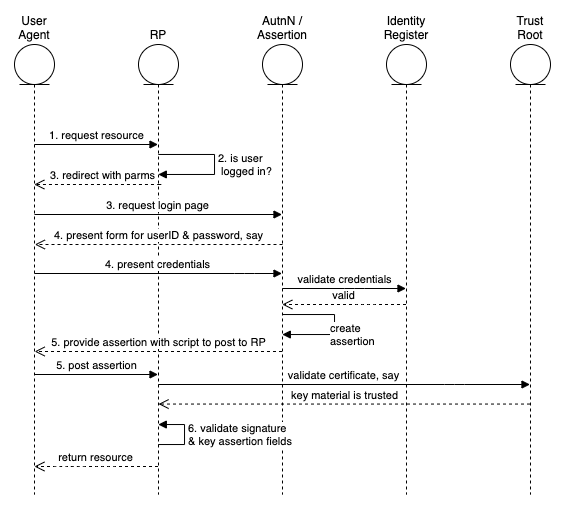
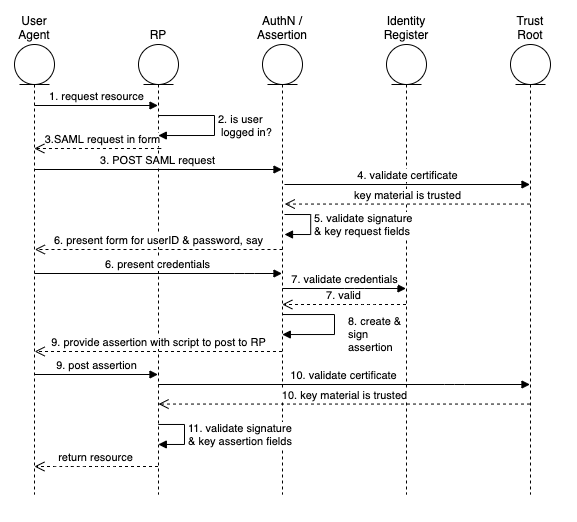
draft of authn-saml use-case complete

diff --git a/use-cases/authn-saml/authn-saml.md b/use-cases/authn-saml/authn-saml.md
@@ -4,30 +4,55 @@ author: George Dobbs
 ---
 
 # Abstract
-This article describes a single use-case as implemented in a particular architecture to illustrate a set of components and how they are connected and interact to perform the use-case.
+This is one of a set of articles that illustrate a set of abstract components may be implemented in a particular architecture.  These articles describe how the abstract components defined in the reference architecture [ref-arch] interact to perform a single use-case . This particular article describes a common use-case which allows a service (the relying party) to use the authentication capability of an identity provider, using the mature security assertion markup language (SAML) standard. This article focuses on  a specific method of web-based signal signon-on.  
 
 # Introduction
+
+This popular use-case relies on trust between the identity provider and the relying party.  There are various ways of doing this; this article assumes that the trust is based on the use of public key cryptography, which involves exchanging certificates.
+
+The SAML specification defines three different kinds of assertion statements; this article is about the Authentication assertion only.
+
+The SAML specification supports mapping of identities between different names, or federated identity. This article is restricted to a single domain, such as a comercial entity which is providing access for its employees to services provided by vendors.  In other words, a single domain of administration allows for the user identifiers to be shared.
+
+Even a cursory review of the OASIS SAML standards documents [SAML Technical Overview] will reveal an extremely rich and flexible structure.  This article represents a very thin slice of its possiblities focusing on the run-time aspect of authentication using the web (HTTPS) messaging protocol.  Technically, we are discussing what OASIS calls the Web Browser SSO profile, using the POST binding.
+
+This synopsis stresses the importance of the Trust Root.  The messaging between the IDP and RP passes through the User Agent.  The User Agent must be considered untrusted.  This means that a corrupted agent could potentially modify the messages.  To protect against this the messages are protected by a digital signature, which must be validated.  It is the common certificate authority that acts as the Trust Root to support these signatures.  
+
+The topic of signatures becomes quite deep quickly and is not covered in detail here.  The SAML specification relies on the W3C Recommendation XML Signature Syntax and Processing [xml-sig], which may be of interest.
+
 # Terminology
+
+Please see the terminology in the reference architecture article [link].
 
 User Agent	The user is not shown here, although he or she is operating the browser, which is called the user -agent.
 
 # Use Case
 
 ## Summary
-The web user seeks resources at the relying party, which causes the user to authenticate  to the identity provider,  which then produces an authentication assertion and the relying party consumes the assertion to establish a security context for the web user.
+The web user seeks resources at the relying party, which causes the user to authenticate  to the identity provider,  which then produces an authentication assertion. Subsequently the relying party consumes the assertion to establish a security context for the web user.
 ## Architecture Types
-Cloud Environments 
+Of the types defined in [Introduction to IAM Architecture] this method applies to Cloud Environments.
 ## Actors 
-User
-User Agent (the browser)
-## Components and connectors  
-Audit Repository<br/>AuthN / Assertion (part of IDP)<br/>Identity Register<br/>Relying Party (RP)<br/>Trust Anchor 
+The user is the only actor.  The user acts through the User Agent (the browser).  The other participants in the use-case are systems "actors", which we show as components.
+## Components
+Theh following components are defined in [ref-arch]
+
+- Audit Repository
+- AuthN / Assertion (part of IDP)
+- Identity Register
+- Relying Party (RP)
+- Trust Anchor 
+
 ## Assumptions
-User wishes to access a protected resource.
+The user wishes to access a protected resource and has requested that access via a web browser, the User Agent.
+
+The relying party has a single identity provider. It is possible that the relying party supports several service providers so a method to determine which one to use would be needed in that case. 
 
 ## Preconditions
 
-Relying party has already been configured to use a single identity provider.
+Prior establishment of trust between the identity provider and the relying party. "The primary mechanism is for the relying party and asserting party to have a pre-existing trust relationship which typically relies on a Public Key Infrastructure (PKI). While use of a PKI is not mandated by SAML, it is recommended." [SAML Technical Overview]
+
+The identity provider and the relying party are using the same user identifiers. The SAML specification establishes ways to map these, but we don't discuss this subject here.
 
 ## Postconditions
 
@@ -35,25 +60,28 @@ User is logged into the relying party's site.
 
 ## Basic Course of Events
 
-The following shows the "happy path", without errors.  
+The following shows the "happy path", without errors.  See also the sequence diagram, below.
 
 1. User selects the login function on the RP's site.  Possibly this is automatic when user attempts to access the protected resource.
 2. RP determines that the user is not logged in.  
-3. Since there is a single configured IDP, the RP prepares an Authentication Request message. and sends it to the IDP through the user agent using an HTTP redirect (with parameters)
-4. The IDP identifies and authenticates the user, interacting with the user-agent.
-5. The IDP prepares a Response message, which the IDP signs.  It is then sent back to the user-agent with instructions to use an HTTP POST to forward it to the RP.
-6. The RP validates the Response and interprets its contents. The signature must be checked.  Before further processing the RP checks it against the already active assertions to prevent replay. The RP then determines whether the authentication was successful.
-7. Not shown in the chart is the audit records being written.  These should be written by the various components.
+3. The RP prepares an Authentication Request message, which the RP signs. It is delivered to the user agent as a form targeted at the identity provider, which is known since there is a single configured IDP. The user agent (automatically via a client side script)  sends the request to the IDP.
+4. The IDP ensures the signing certificate from the RP is still valid, by checking for revocation. 
+5. The IDP validates the request and interprets its contents. The signature is checked and some field values are checked.
+6. The IDP interacts with the user-agent to gather the user's identifier and credentials.  For example this could ask for a user name and password, but it could be something else.
+7. The IDP uses its Identity Register to validate the credentials.
+8. The IDP prepares a Response message, which the IDP signs.  
+9. The response is then sent back to the user-agent with instructions to use an HTTP POST to forward it to the RP.
+10. The RP ensures the signing certificate from the IDP is still valid, by checking for revocation.
+11. The RP validates the Response and interprets its contents. The signature must be checked.  The RP checks it against the already active assertions to prevent replay, and makes other checks. The RP then determines whether the authentication was successful.
+12. Not shown in the chart is the audit records being written.  These should be written by the various components.
 
 ## Alternative Paths
 
-It is possible that the relying party supports several service providers so a method to determine which one to use is needed in that case. 
+Step 3 may be replaced with an HTTP redirect.  This is an allowed composition of the POST binding and the Redirect binding [bindings section 3.5]
 
-There are alternatives to the post method in step 5.  See the specificiation [Oasis]
+There are also alternatives to the post method in step 5.  [binding]
 
 This is the service provider (the relying party) initiated variant. There is an also an IDP initiated alternative.
-
-
 
 ## Exception Paths
 
@@ -61,12 +89,24 @@ Failure to autheniticate at the IDP does not return an assertion.
 
 Failure to validate the signature indicates that the assertion should not be honored.
 
-## Sequence or Collaboration Diagram
+Various error conditions such as the validity period expiring are described in the standard.
+
+## Sequence Diagram
 
 ![The "happy path" of the Web Browser SSO Profile](resources/sequence.png){width="6.268055555555556in" height="4.636805555555555in"}
 
 ## References
 
-http://docs.oasis-open.org/security/saml/v2.0/saml-profiles-2.0-os.pdf
+[SAML Technical Overview] https://www.oasis-open.org/committees/download.php/27819/sstc-saml-tech-overview-2.0-cd-02.pdf which points to more detailed documents such as the core, profiles and bindings.
 
-https://www.w3.org/TR/xmldsig-core/#sec-CoreValidation
+[Introduction to IAM Architecture] https://www.oasis-open.org/committees/download.php/27819/sstc-saml-tech-overview-2.0-cd-02.pdf
+
+[ref-arch] to be published concurrently in idpro bok*			
+
+[saml-core] https://docs.oasis-open.org/security/saml/v2.0/saml-core-2.0-os.pdf
+
+[saml-profiles] http://docs.oasis-open.org/security/saml/v2.0/saml-profiles-2.0-os.pdf
+
+[binding] http://docs.oasis-open.org/security/saml/v2.0/saml-bindings-2.0-os.pdf
+
+[xml-sig] https://www.w3.org/TR/xmldsig-core/#sec-CoreValidation
